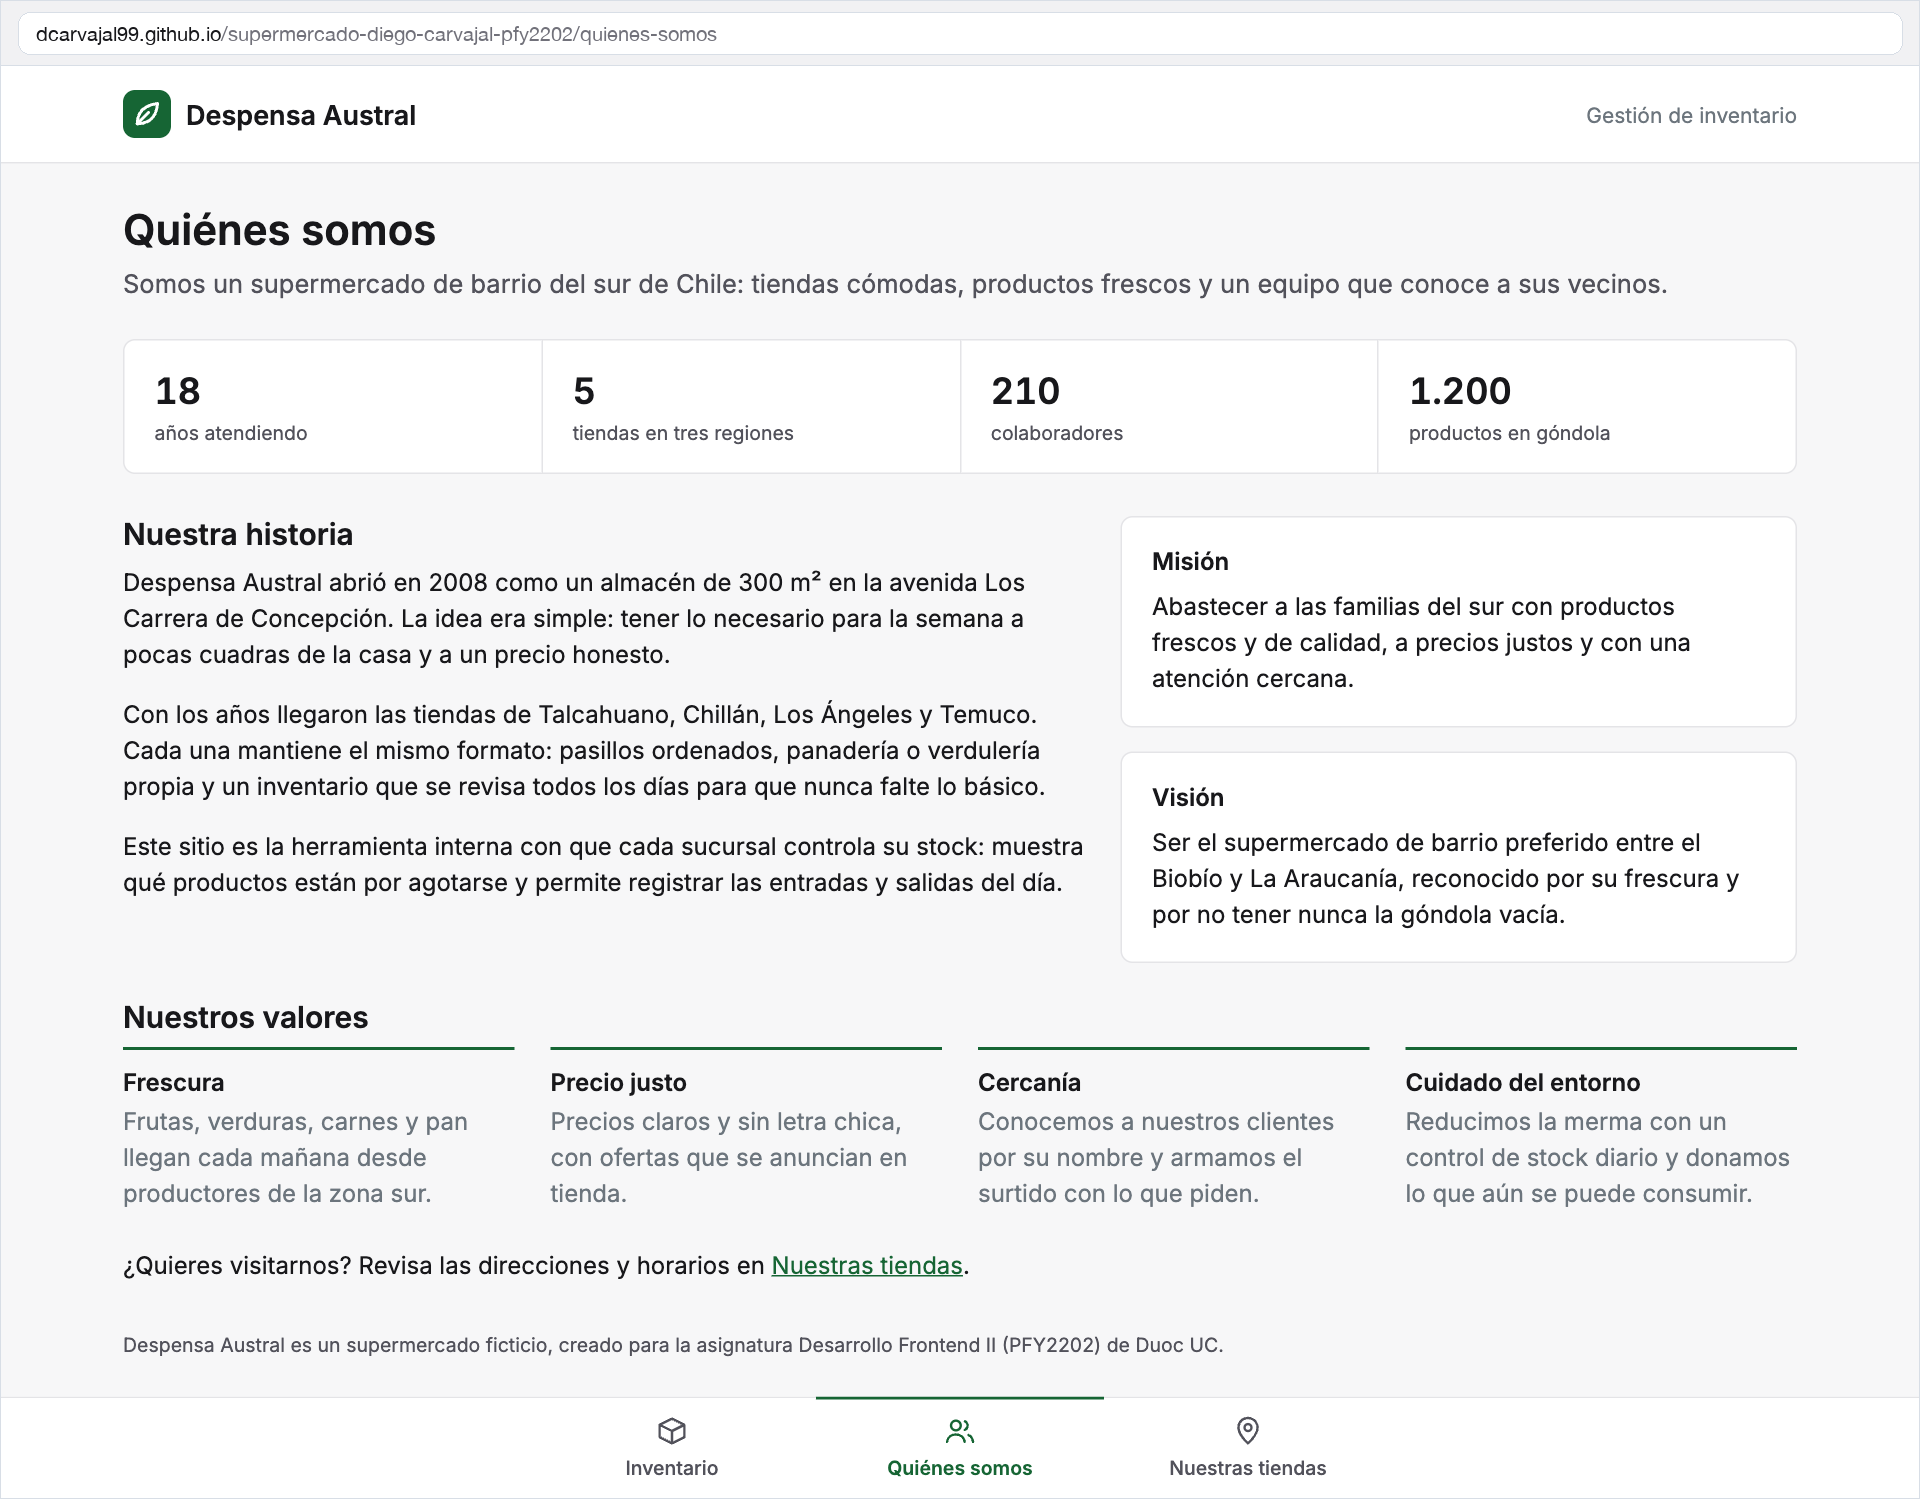
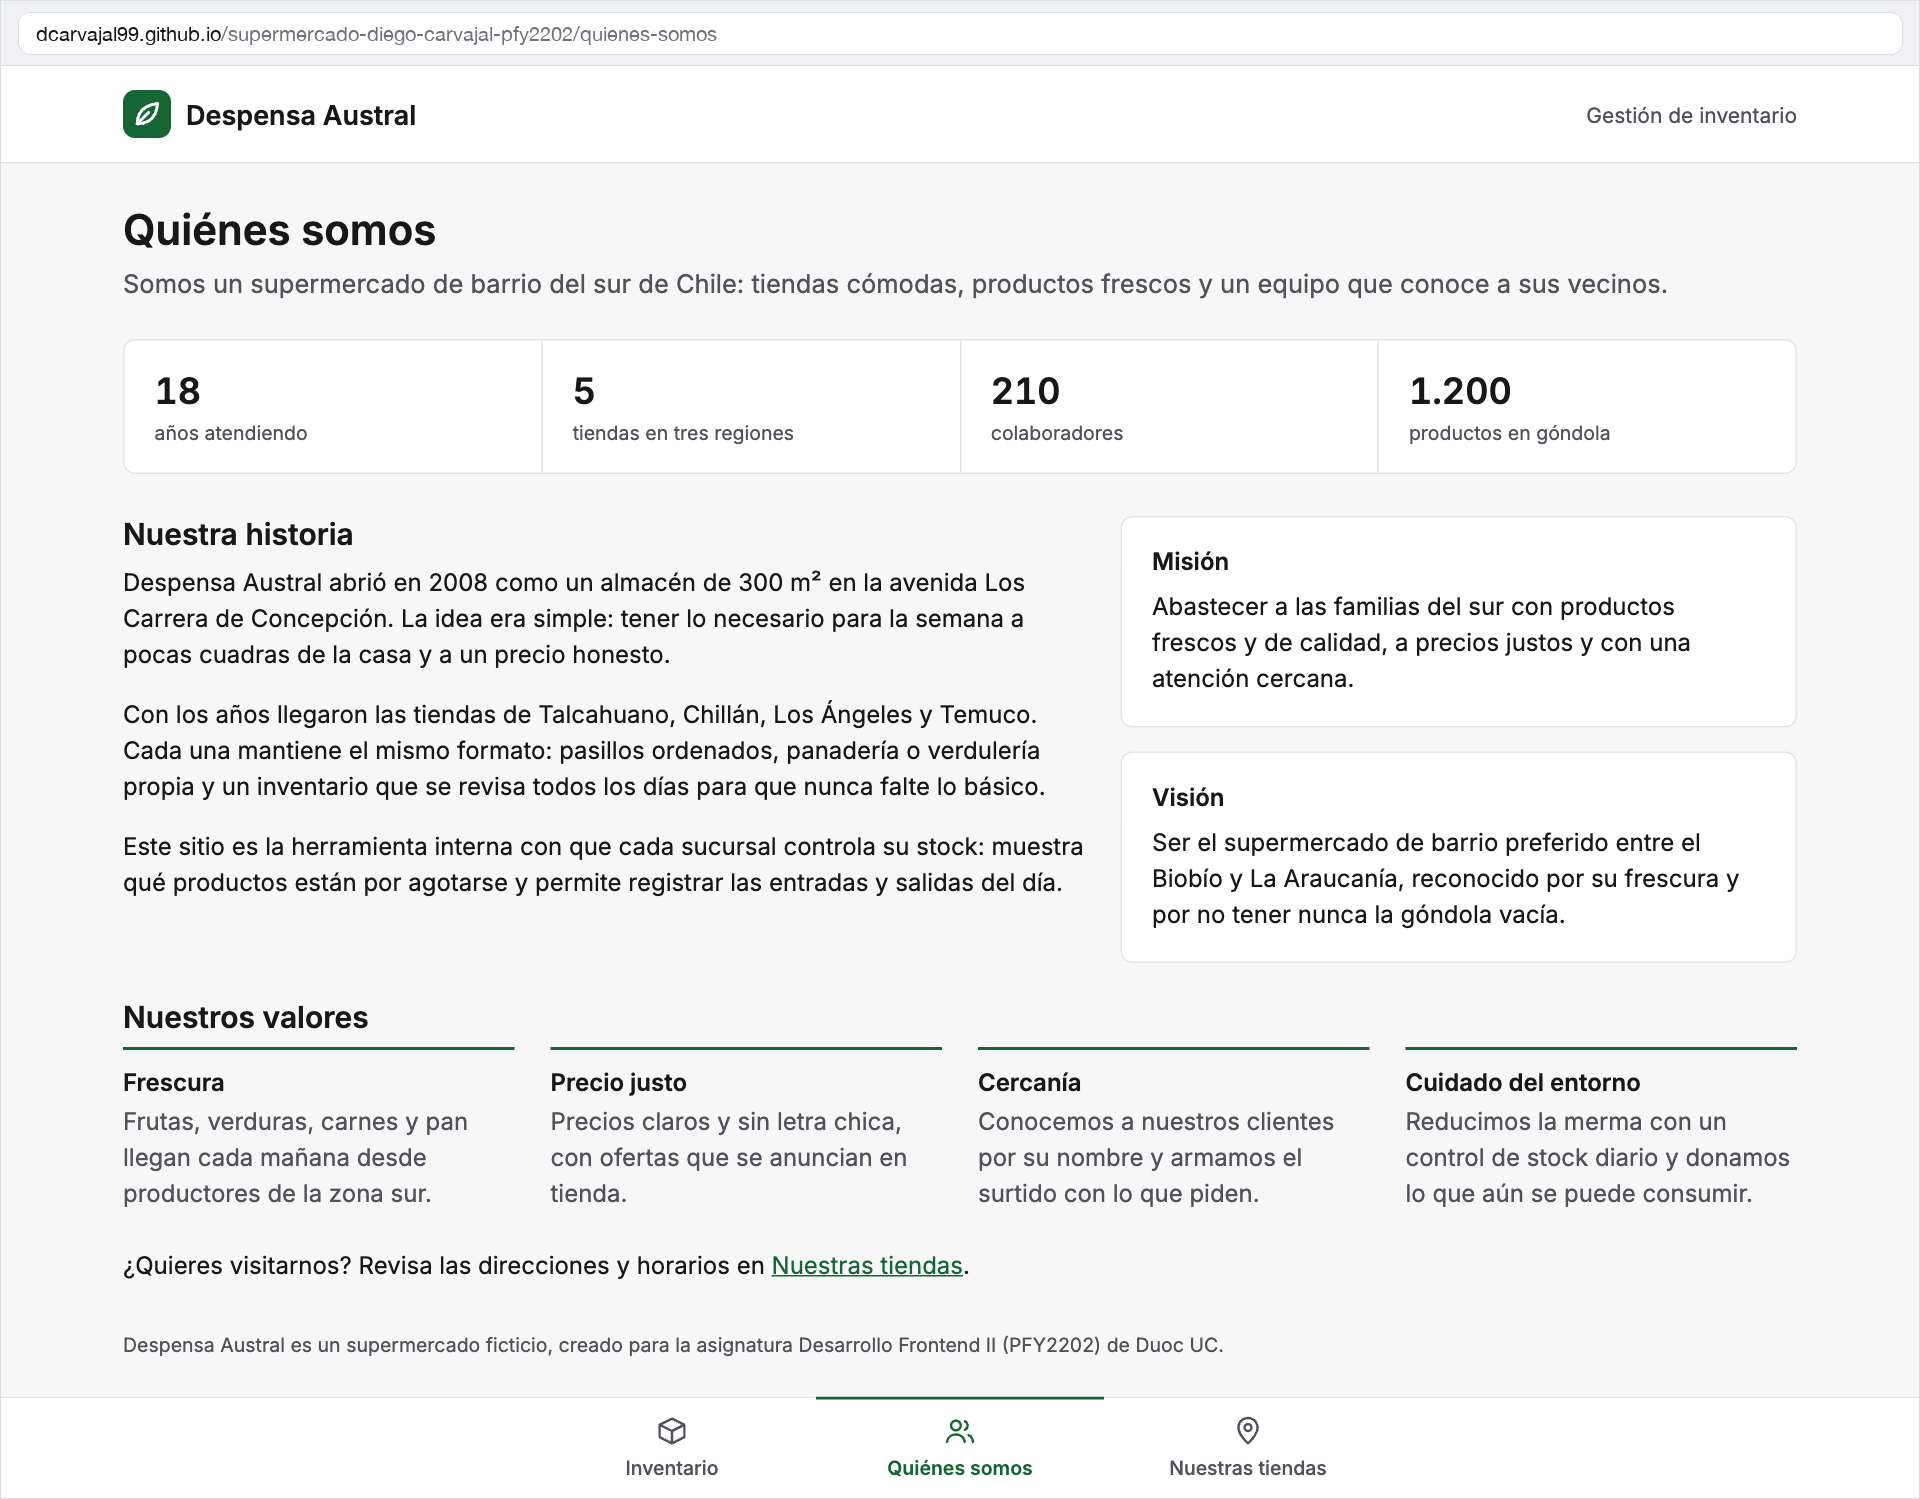
Semana 1: rutas con estado 200 en GitHub Pages, contraste y salto de pagina
Ajustes tras revisar la entrega con Lighthouse y la consola del navegador.

- vite.config.js copia index.html como quienes-somos.html,
  nuestras-tiendas.html y producto/<id>.html. GitHub Pages sirve esas
  rutas con estado 200 al abrirlas directo o recargar; antes respondia 404
  (la pagina se veia, pero la consola marcaba error y Lighthouse no podia
  auditarlas). 404.html queda solo para las direcciones que no existen.
- --bs-secondary-rgb con el gris de la paleta: .text-secondary usaba el
  gris de Bootstrap (#6c757d, 4,38:1) y no llegaba al contraste minimo de
  4,5:1. Ahora 7,22:1; Lighthouse da 100 en accesibilidad.
- Al cambiar de pagina el scroll salta arriba de inmediato, sin la
  animacion de scroll-behavior: smooth de Bootstrap.
- README y las 11 capturas de capturas/semana-1 actualizados.

diff --git a/vite.config.js b/vite.config.js
@@ -1,18 +1,28 @@
-import { copyFileSync } from 'node:fs';
-import { join } from 'node:path';
+import { copyFileSync, mkdirSync } from 'node:fs';
+import { dirname, join } from 'node:path';
 import { defineConfig } from 'vite';
 import react from '@vitejs/plugin-react';
+import { PRODUCTOS } from './src/datos/productos.js';
 
-// GitHub Pages no conoce las rutas de React Router: si alguien recarga
-// /quienes-somos, el servidor busca ese archivo, no lo encuentra y responde con
-// 404.html. Copiar index.html como 404.html hace que esa respuesta cargue la misma
-// aplicación, y BrowserRouter dibuja la página que corresponde a la URL.
-function copiarComo404() {
+// Rutas del sitio (las mismas de App.jsx), sin la barra inicial.
+const RUTAS = ['quienes-somos', 'nuestras-tiendas', ...PRODUCTOS.map((producto) => 'producto/' + producto.id)];
+
+// GitHub Pages no conoce las rutas de React Router: al recargar /quienes-somos busca
+// un archivo con ese nombre. Para cada ruta se copia index.html como <ruta>.html, que
+// Pages sirve con estado 200, y BrowserRouter dibuja la página que corresponde a la URL.
+// La copia 404.html atiende las direcciones que no existen: responde con estado 404,
+// carga la misma aplicación y React Router muestra la página «no encontrada».
+function copiarRutas() {
     return {
-        name: 'copiar-como-404',
+        name: 'copiar-rutas',
         apply: 'build',
         writeBundle(opciones) {
-            copyFileSync(join(opciones.dir, 'index.html'), join(opciones.dir, '404.html'));
+            const indice = join(opciones.dir, 'index.html');
+            for (const ruta of [...RUTAS, '404']) {
+                const destino = join(opciones.dir, ruta + '.html');
+                mkdirSync(dirname(destino), { recursive: true });
+                copyFileSync(indice, destino);
+            }
         },
     };
 }
@@ -22,5 +32,5 @@ function copiarComo404() {
 // y main.jsx usa la misma base para las rutas de React Router.
 export default defineConfig({
     base: '/supermercado-diego-carvajal-pfy2202/',
-    plugins: [react(), copiarComo404()],
+    plugins: [react(), copiarRutas()],
 });

diff --git a/src/estilos.css b/src/estilos.css
@@ -20,6 +20,9 @@
     --bs-body-bg: var(--da-gris-claro);
     --bs-border-color: var(--da-borde);
     --bs-secondary-color: var(--da-gris);
+    /* .text-secondary lee la variable -rgb: sin ella queda el gris de Bootstrap (#6c757d),
+       que no alcanza el contraste mínimo de 4,5:1 sobre el fondo gris claro */
+    --bs-secondary-rgb: 82, 82, 91;
     /* Bootstrap 5.3 pinta los enlaces con las variables -rgb */
     --bs-link-color: var(--da-acento);
     --bs-link-color-rgb: var(--da-acento-rgb);

diff --git a/src/componentes/Plantilla.jsx b/src/componentes/Plantilla.jsx
@@ -20,7 +20,9 @@ function Plantilla() {
     useEffect(() => {
         if (rutaAnterior.current === pathname) return;
         rutaAnterior.current = pathname;
-        window.scrollTo(0, 0);
+        // instant: sin la animación de scroll-behavior: smooth de Bootstrap, la página
+        // nueva aparece arriba de inmediato.
+        window.scrollTo({ top: 0, behavior: 'instant' });
         contenido.current?.focus({ preventScroll: true });
     }, [pathname]);
 

diff --git a/README.md b/README.md
@@ -62,19 +62,21 @@ Los filtros también viajan en la URL, así que se pueden compartir y sobreviven
   detalle ya está actualizado al volver al home.
 - **`useNavigate`**: «Volver a la página anterior» en la página no encontrada (solo si hay una página
   anterior dentro del sitio, según `useLocation().key`).
-- **Al cambiar de página** la `Plantilla` vuelve arriba y lleva el foco al contenido, y cada página
-  cambia el título de la pestaña (`useTituloPagina`): el teclado y el lector de pantalla parten
-  desde la página nueva.
-- **GitHub Pages y las rutas**: Pages no conoce las rutas de React Router, así que al recargar
-  `/quienes-somos` respondería 404. `vite.config.js` copia `index.html` como `404.html` al construir:
-  esa respuesta carga la misma aplicación y `BrowserRouter` muestra la página correcta.
+- **Al cambiar de página** la `Plantilla` salta al inicio (sin la animación de `scroll-behavior`
+  de Bootstrap) y lleva el foco al contenido, y cada página cambia el título de la pestaña
+  (`useTituloPagina`): el teclado y el lector de pantalla parten desde la página nueva.
+- **GitHub Pages y las rutas**: Pages no conoce las rutas de React Router; al recargar
+  `/quienes-somos` busca un archivo con ese nombre. Al construir, `vite.config.js` copia `index.html`
+  como `quienes-somos.html`, `nuestras-tiendas.html` y `producto/<id>.html` (Pages los sirve con estado
+  200) y como `404.html`, que atiende las direcciones que no existen: responde 404, carga la misma
+  aplicación y React Router muestra «Página no encontrada».
 
 ## Estructura del proyecto
 
 ```
 supermercado-diego-carvajal-pfy2202/
 ├── index.html                    Página que monta React (Bootstrap 5.3.8 e Inter por CDN)
-├── vite.config.js                Base de GitHub Pages y copia de index.html como 404.html
+├── vite.config.js                Base de GitHub Pages y copias de index.html por ruta y como 404.html
 ├── public/favicon.svg
 ├── src/
 │   ├── main.jsx                  BrowserRouter con basename
@@ -110,7 +112,7 @@ npm run dev        # abre http://localhost:5173/supermercado-diego-carvajal-pfy2
 Otros comandos:
 
 ```bash
-npm run build      # deja la versión publicable en dist/ (con 404.html)
+npm run build      # deja la versión publicable en dist/ (con una página por ruta y 404.html)
 npm run preview    # sirve dist/ en http://localhost:4173/supermercado-diego-carvajal-pfy2202/
 npm run lint       # revisa el código con oxlint
 npm run deploy     # construye y publica dist/ en la rama gh-pages
@@ -123,15 +125,22 @@ npm run deploy     # construye y publica dist/ en la rama gh-pages
   tiendas filtradas por región y página no encontrada).
 - W3C CSS Validator: hoja válida, 0 errores y 0 advertencias.
 - `oxlint`: sin avisos.
-- Recorrido en Chrome a 1280 px y a 375 px: navegación con el menú inferior, filtros en la URL,
-  Atrás y Adelante del navegador, apertura de un producto y regreso con los filtros, entrada y salida
-  con validación, cambio de producto con el formulario limpio, recarga directa de una ruta interna y
-  dirección inexistente.
+- Lighthouse sobre el sitio publicado (inventario, detalle de un producto, quiénes somos y nuestras
+  tiendas, en escritorio y teléfono): 100 en accesibilidad, buenas prácticas y SEO.
+- GitHub Pages responde 200 al abrir directo cualquier ruta del sitio y 404 solo en las direcciones
+  que no existen; la consola queda sin errores.
+- Recorrido en Chrome a 1280 px y a 390 px: navegación con el menú inferior sin recargar la página,
+  filtros en la URL, Atrás y Adelante del navegador, apertura de un producto y regreso con los filtros,
+  entrada y salida con validación, cambio de producto con el formulario limpio, recarga directa de una
+  ruta interna y dirección inexistente. Sin desborde horizontal a 390 px.
+- Instalación desde un clon limpio del repositorio con `npm install` (npm 10), `npm run lint` y
+  `npm run build`.
 
 ## Diseño
 
 Una sola tipografía (Inter), cinco neutros y un acento verde (`#166534`); el rojo `#b02a37` se
-reserva para las alertas de stock. Sin degradados ni sombras: la estructura se marca con espacio en
+reserva para las alertas de stock. El texto secundario usa el gris `#52525b` de la paleta (7,2:1 sobre
+el fondo), también en las clases `text-secondary` de Bootstrap. Sin degradados ni sombras: la estructura se marca con espacio en
 blanco y líneas de 1 px. En el teléfono la tabla del inventario se convierte en bloques con la
 etiqueta de cada dato.
 
